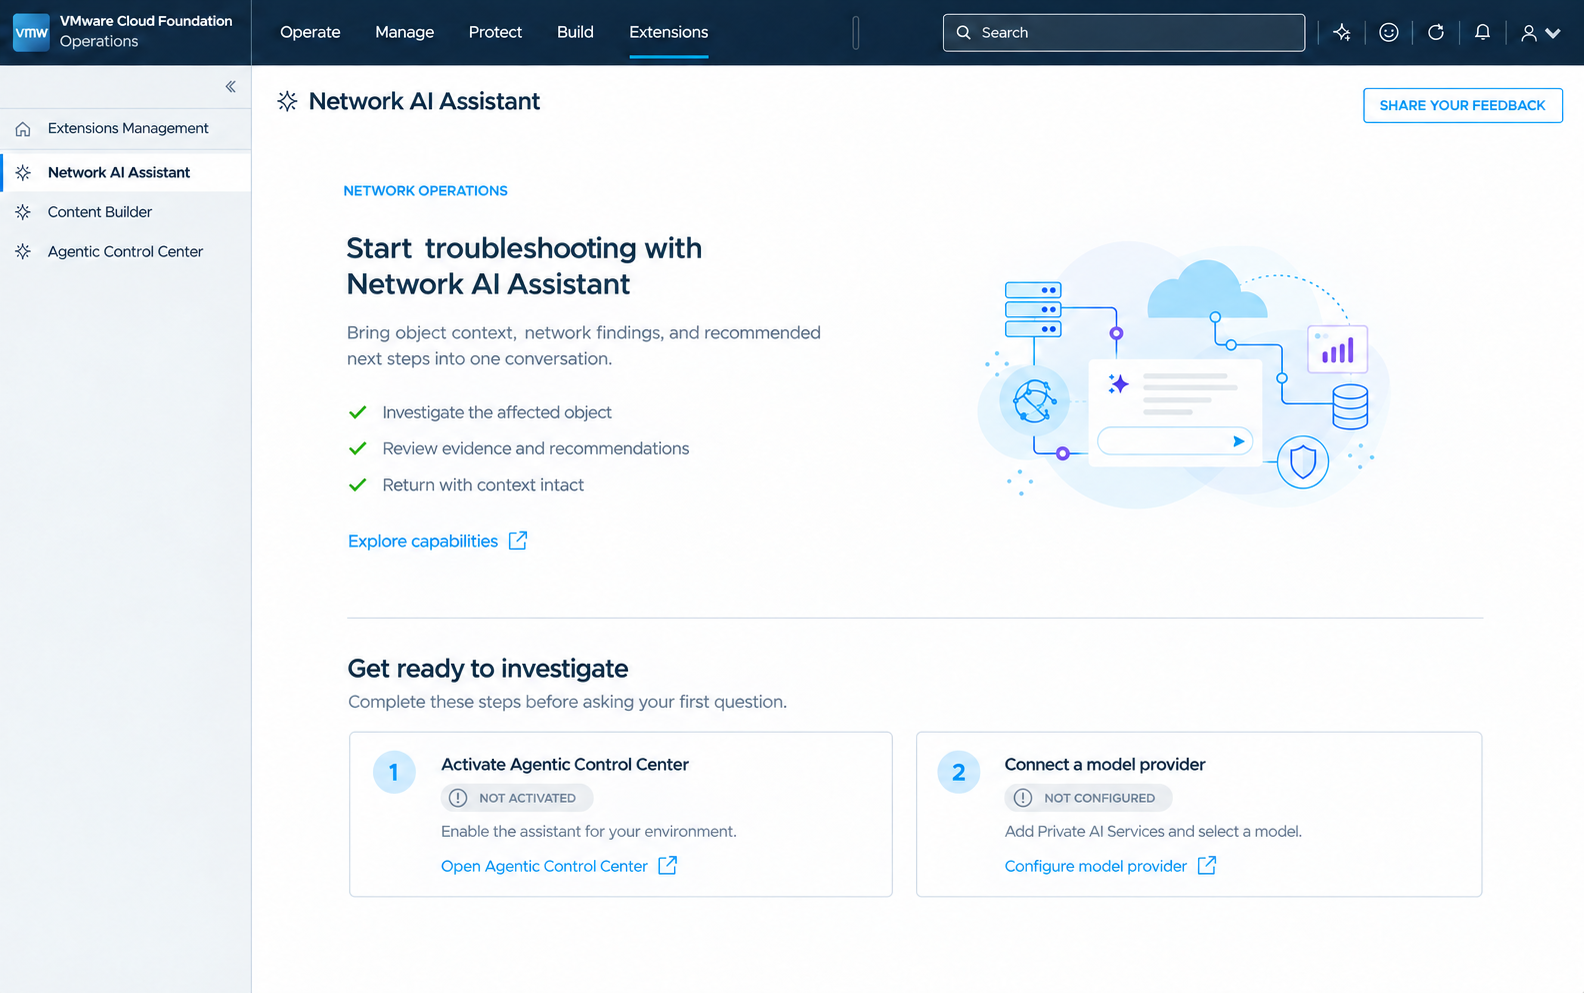
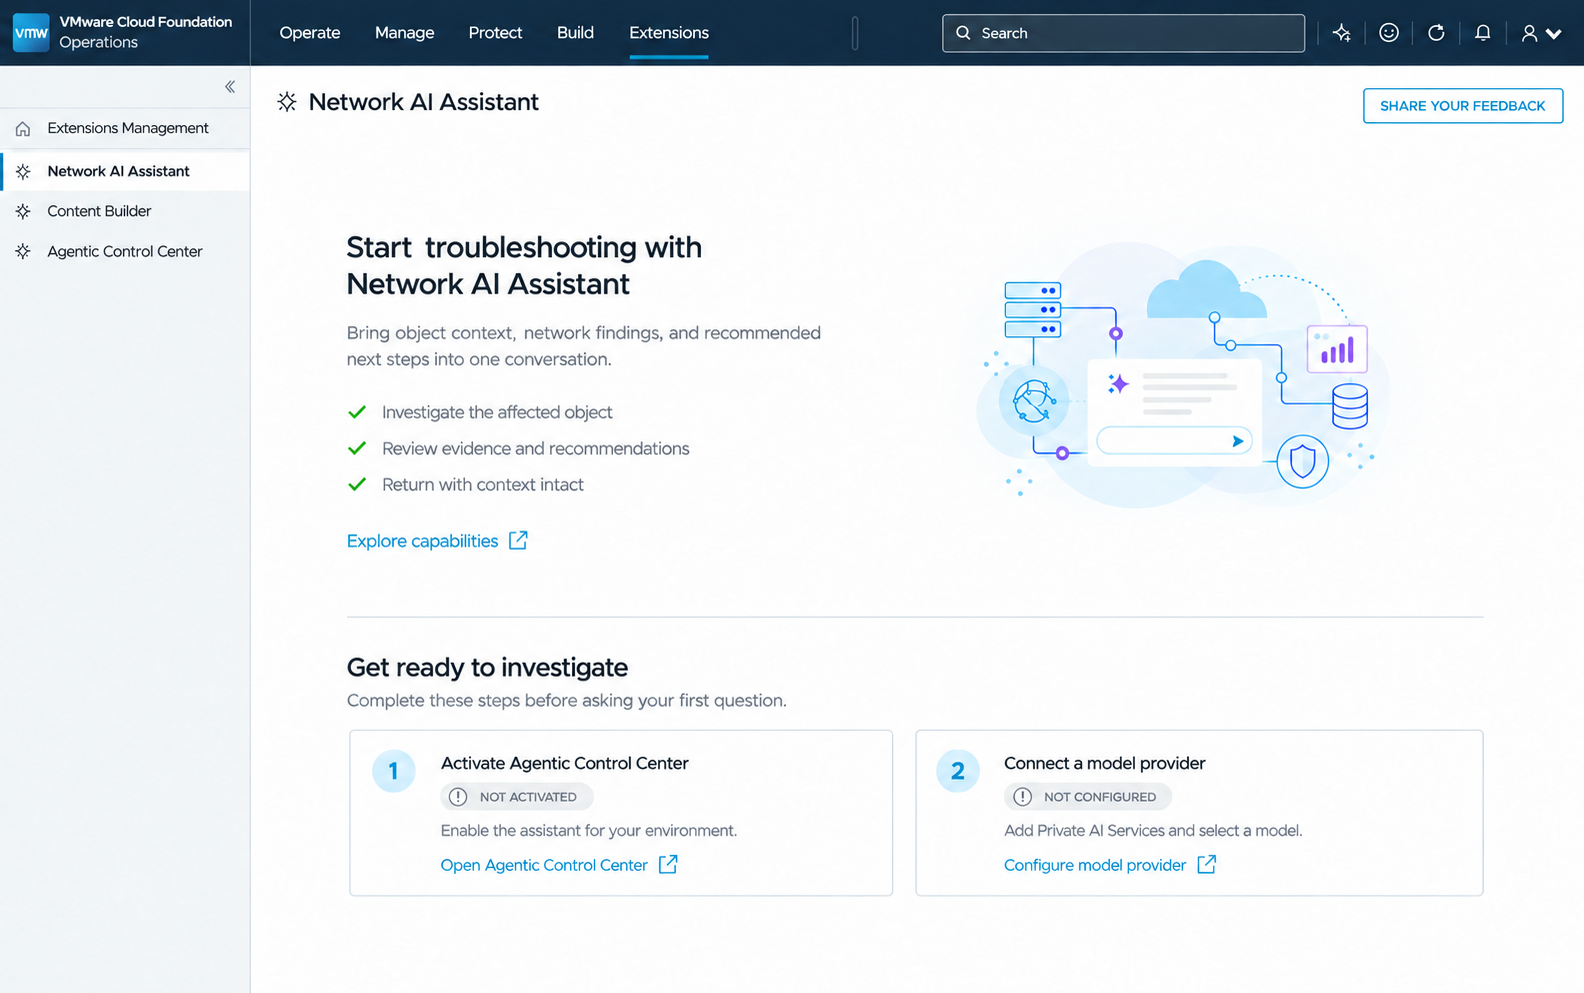
Refine first-use screenshot label and text colors

diff --git a/src/components/ai-assistant/AiAssistantCaseStudyContent.tsx b/src/components/ai-assistant/AiAssistantCaseStudyContent.tsx
@@ -54,7 +54,7 @@ const content: Record<string, ReactNode> = {
       <div className="ai-feature-heading"><span>01</span><h3 id="setup-heading">Supporting the first-use experience</h3></div>
       <Copy><p>Before operators can investigate, administrators need a clear setup path. The entry screen identifies prerequisites; Agentic Control Center separates provider configuration from daily troubleshooting.</p></Copy>
       <div className="ai-setup-grid">
-        <CaseStudyFigure name="setup-prerequisites" version="spacious-first-use" alt="Network AI Assistant welcome screen with a networking illustration and two setup cards for activation and model configuration" caption="Explain readiness before inviting the operator to ask a question." />
+              <CaseStudyFigure name="setup-prerequisites" version="neutral-first-use" alt="Network AI Assistant welcome screen with a networking illustration and two setup cards for activation and model configuration" caption="Explain readiness before inviting the operator to ask a question." />
         <CaseStudyFigure name="setup-provider" version="network-name" alt="Model provider configuration with separate, empty API key and endpoint fields" caption="Give administrators a dedicated place to configure the model connection." />
       </div>
     </article>
